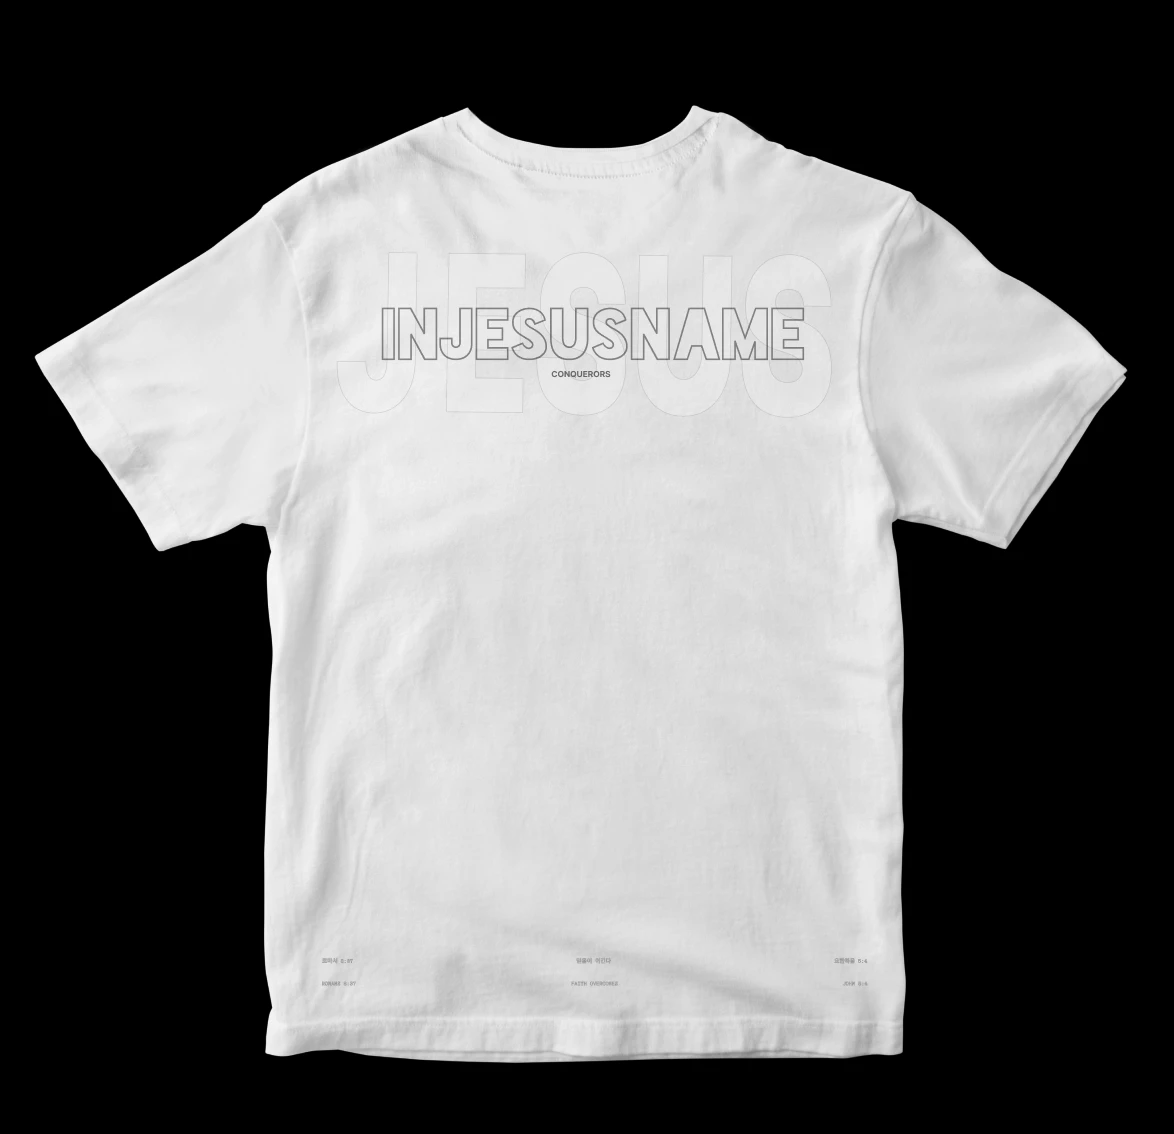
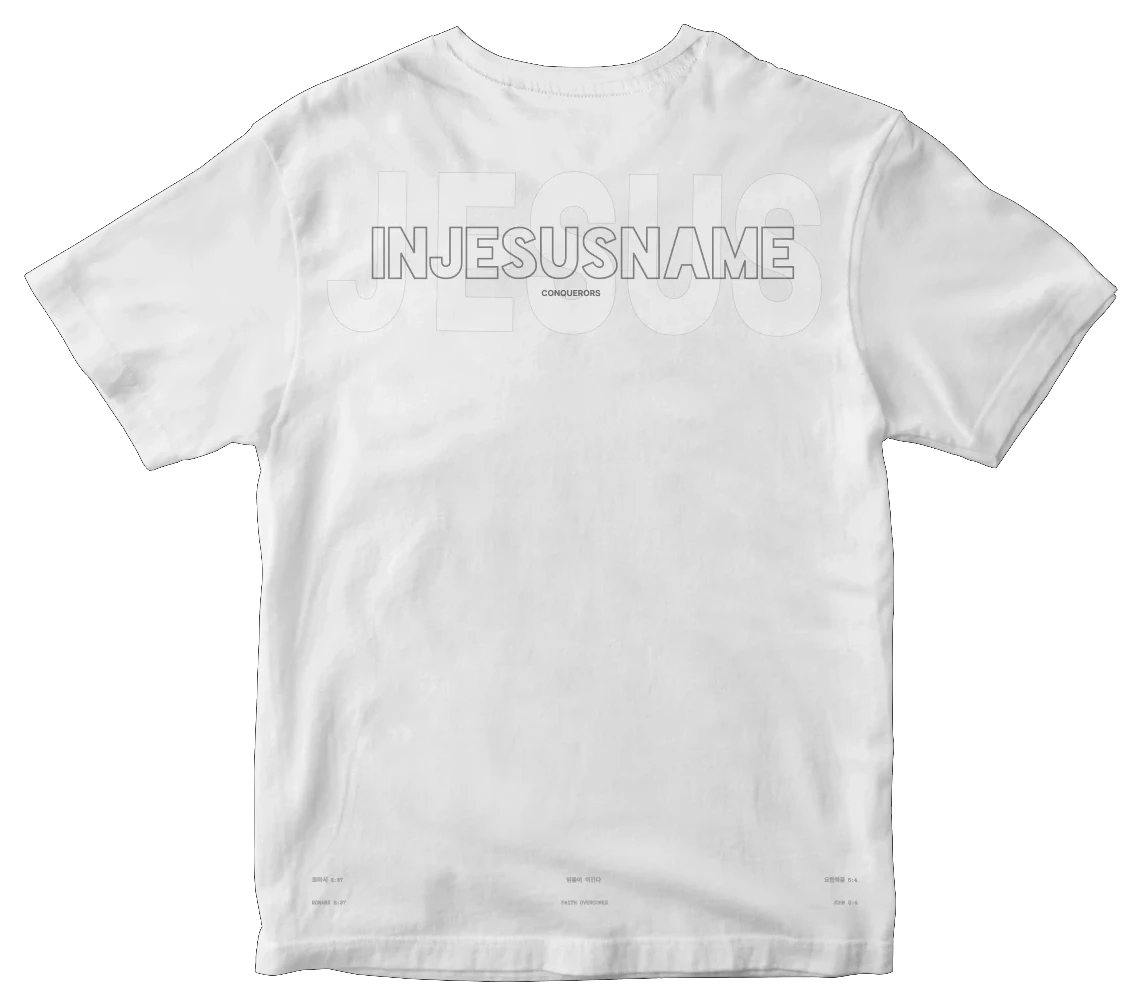
Fill the catalog with real tee designs; front-then-back order
- 28 tees built from the product mockups (rendered from the source SVGs to
  WebP in public/images/products/web, halos from the light-background
  mockup layers removed); names, colors, prices are placeholders
- Products carry front/back images: cards show the print side and reveal
  the front on hover; detail gallery and the drop toggle go FRONT -> BACK
- Men/Women pages include unisex items
- Card backgrounds get a soft spotlight so black tees stay visible
- Conquerors back image re-cut with a transparent background
- Ignore the 10-30MB source SVG/PNG files in public/images/products

Claude-Session: https://claude.ai/code/session_018kfPbD3jg1obbvMpuWQzvo

diff --git a/src/data/products.ts b/src/data/products.ts
@@ -1,32 +1,75 @@
-import type { Product } from '../types/product'
+import type { Category, Product } from '../types/product'
 
-// 목업 이미지: 기존 SVG(장당 16~28MB)에서 추출해 WebP로 변환한 버전입니다.
-const FRONT = '/images/products/product1.webp'
-const BACK = '/images/products/product1-hover.webp'
+// 상품 이미지: public/images/products/web/ (원본 SVG를 렌더링해 WebP로 변환한 파일)
+const W = (n: string) => `/images/products/web/${n}.webp`
 
-export const products: Product[] = [
+interface Def {
+  name: string
+  color: string
+  price: number
+  back?: string
+  front?: string
+  tag?: string
+  category?: Category
+  description?: string
+}
+
+// 가격·이름·앞/뒤 짝은 임시로 정한 값입니다. 실제 정보로 바꿔 주세요.
+const DEFS: Def[] = [
   {
-    id: 1,
     name: 'conquerors tee',
+    color: 'White',
     price: 39000,
-    category: 'unisex',
-    image: '/images/products/conquerors-back.webp',
-    hoverImage: FRONT,
+    back: '/images/products/conquerors-back.webp',
+    front: '/images/products/product1.webp',
     tag: 'DROP 001',
     description:
       '등판의 INJESUSNAME 아웃라인 레터링 뒤로 JESUS가 겹쳐 흐르는 시그니처 티셔츠. 밑단에는 로마서 8:37과 요한일서 5:4, “믿음이 이긴다”가 새겨져 있습니다.',
   },
-  { id: 2, name: 'nurim & conquerors t-shirt', price: 45000, category: 'men', image: FRONT, hoverImage: BACK, tag: 'NEW' },
-  { id: 3, name: 'faithful oversized tee', price: 52000, category: 'women', image: FRONT, hoverImage: BACK },
-  { id: 4, name: 'grace hoodie', price: 38000, category: 'unisex', image: FRONT, hoverImage: BACK },
-  { id: 5, name: 'kingdom long sleeve', price: 48000, category: 'men', image: FRONT, hoverImage: BACK },
-  { id: 6, name: 'victory crop top', price: 34000, category: 'women', image: FRONT, hoverImage: BACK },
-  { id: 7, name: 'anointed coach jacket', price: 62000, category: 'men', image: FRONT, hoverImage: BACK },
-  { id: 8, name: 'blessing wide pants', price: 56000, category: 'women', image: FRONT, hoverImage: BACK },
-  { id: 9, name: 'victory track pants', price: 45000, category: 'men', image: FRONT, hoverImage: BACK },
-  { id: 10, name: 'kingdom bomber jacket', price: 78000, category: 'men', image: FRONT, hoverImage: BACK },
-  { id: 11, name: 'graceful slip dress', price: 62000, category: 'women', image: FRONT, hoverImage: BACK },
-  { id: 12, name: 'anointed knit sweater', price: 54000, category: 'women', image: FRONT, hoverImage: BACK },
+  { name: 'in jesus name tee', color: 'Slate', price: 42000, back: W('g731'), front: W('t-shirt'), tag: 'NEW', description: '굵은 CONQUERORS 레터링 아래 IN JESUS NAME. 앞면에는 작은 레터링이 들어갑니다.' },
+  { name: 'a movement tee', color: 'Navy', price: 42000, back: W('g726'), front: W('t-shirt-1'), tag: 'NEW', description: '등판을 가로지르는 십자 타이포그래피 “A MOVEMENT OF 200 LEADERS”.' },
+  { name: 'faith love hope tee', color: 'Charcoal', price: 39000, back: W('g651'), front: W('g648'), description: '등판 가득 채운 말씀 블록과 밑단의 FAITH · LOVE · HOPE.' },
+  { name: 'the cross tee', color: 'Black', price: 39000, back: W('g659'), front: W('g663'), description: '블랙 위에 블랙으로 새긴 십자가와 말씀. 가까이서 봐야 보이는 톤온톤 프린트.' },
+  { name: 'mighty nation tee', color: 'Brown', price: 42000, back: W('g744'), front: W('g740'), description: '이사야 60:22 — “그 작은 자가 천 명을 이루겠고 그 약한 자가 강국을 이룰 것이라.”' },
+  { name: 'mighty nation tee', color: 'Cocoa', price: 42000, back: W('g750'), front: W('g749') },
+  { name: 'mighty nation tee', color: 'Charcoal', price: 42000, back: W('g724') },
+  { name: 'conquerors tee', color: 'Charcoal', price: 39000, back: W('g753'), front: W('g665') },
+  { name: 'conquerors star tee', color: 'Charcoal', price: 42000, back: W('g768'), front: W('g662'), tag: 'NEW' },
+  { name: 'holy spirit fire tee', color: 'Black', price: 39000, back: W('g759'), front: W('g796') },
+  { name: 'the army of the lord tee', color: 'Slate', price: 42000, back: W('g781') },
+  { name: 'conquerors tee', color: 'Navy', price: 39000, back: W('g784') },
+  { name: 'conquerors tee', color: 'Stone', price: 39000, back: W('g755') },
+  { name: 'conquerors tee', color: 'Steel Blue', price: 39000, back: W('g756') },
+  { name: 'conquerors scripture tee', color: 'Graphite', price: 42000, back: W('g777') },
+  { name: 'conquerors cross tee', color: 'Charcoal', price: 45000, back: W('g853'), front: W('g834') },
+  { name: 'holy spirit fire tee', color: 'Charcoal', price: 39000, back: W('g835'), front: W('g836') },
+  { name: 'injesusname glow tee', color: 'White', price: 42000, back: W('g819'), front: W('g820') },
+  { name: 'conquerors glow tee', color: 'White', price: 42000, back: W('g702'), front: W('g851') },
+  { name: 'injesusname glow tee', color: 'White / Orange', price: 42000, back: W('g713'), front: W('g688') },
+  { name: 'a thousand tee', color: 'White', price: 39000, back: W('g695') },
+  { name: 'conquerors gradient tee', color: 'Mint', price: 45000, back: W('g817') },
+  { name: 'nurim gradient tee', color: 'Lime', price: 45000, back: W('g818') },
+  { name: 'nurim gradient tee', color: 'Lavender', price: 45000, back: W('g793') },
+  { name: 'nurim gradient tee', color: 'Sand', price: 45000, back: W('g792') },
+  { name: 'nurim tee', color: 'Olive', price: 35000, front: W('g747') },
+  { name: 'conquerors tee', color: 'White / Red', price: 39000, back: W('g832') },
 ]
+
+export const products: Product[] = DEFS.map((d, i) => {
+  const main = d.back ?? d.front!
+  return {
+    id: i + 1,
+    name: d.name,
+    color: d.color,
+    price: d.price,
+    category: d.category ?? 'unisex',
+    image: main,
+    hoverImage: d.back && d.front ? d.front : undefined,
+    front: d.front,
+    back: d.back,
+    tag: d.tag,
+    description: d.description,
+  }
+})
 
 export const getProduct = (id: number) => products.find((p) => p.id === id)

diff --git a/src/pages/Home.tsx b/src/pages/Home.tsx
@@ -12,7 +12,7 @@ import { products } from '../data/products'
 import { lookbook } from '../data/lookbook'
 import { BRAND, DROP } from '../config'
 import { pad, won } from '../lib/format'
-import type { Category } from '../types/product'
+import { inCategory, type Category } from '../types/product'
 
 export default function Home() {
   return (
@@ -120,24 +120,24 @@ function Hero() {
 /* ───────────────────────── DROP FEATURE ───────────────────────── */
 function DropFeature() {
   const hero = products[0]
-  const [view, setView] = useState<'back' | 'front'>('back')
+  const [view, setView] = useState<'front' | 'back'>('back')
 
   return (
     <section className="grid lg:grid-cols-2 border-b border-line">
       {/* image */}
-      <div className="relative bg-black aspect-square lg:aspect-auto lg:min-h-[100svh] flex items-center justify-center overflow-hidden lg:border-r border-line pb-5 md:pb-0">
+      <div className="relative bg-[radial-gradient(circle_at_50%_45%,#1a1a1a_0%,#000_70%)] aspect-square lg:aspect-auto lg:min-h-[100svh] flex items-center justify-center overflow-hidden lg:border-r border-line pb-5 md:pb-0">
         <motion.img
           key={view}
-          src={view === 'back' ? hero.image : hero.hoverImage}
+          src={view === 'back' ? hero.back : hero.front}
           alt={`${hero.name} ${view}`}
-          className="w-[86%] max-w-[760px] object-contain mix-blend-lighten"
+          className="w-[86%] max-w-[760px] object-contain"
           initial={{ opacity: 0, scale: 1.03 }}
           animate={{ opacity: 1, scale: 1 }}
           transition={{ duration: 0.6 }}
         />
         <div className="absolute top-5 left-5 micro text-ash">Fig. {pad(hero.id)}</div>
         <div className="absolute bottom-0 md:bottom-5 left-1/2 -translate-x-1/2 flex border border-line">
-          {(['back', 'front'] as const).map((v) => (
+          {(['front', 'back'] as const).map((v) => (
             <button
               key={v}
               onClick={() => setView(v)}
@@ -296,7 +296,7 @@ const FILTERS: (Category | 'all')[] = ['all', 'men', 'women', 'unisex']
 
 function Collection() {
   const [f, setF] = useState<Category | 'all'>('all')
-  const list = useMemo(() => (f === 'all' ? products : products.filter((p) => p.category === f)).slice(0, 8), [f])
+  const list = useMemo(() => (f === 'all' ? products : products.filter((p) => inCategory(p, f))).slice(0, 8), [f])
 
   return (
     <section className="pt-28">

diff --git a/src/pages/ProductDetail.tsx b/src/pages/ProductDetail.tsx
@@ -17,9 +17,12 @@ export default function ProductDetail() {
 
   if (!product) return <NotFound />
 
-  const images = [product.image, product.hoverImage].filter(Boolean) as string[]
+  // 앞면 → 뒷면 순서
+  const images: [string, string][] = []
+  if (product.front) images.push(['Front', product.front])
+  if (product.back) images.push(['Back', product.back])
   const sizes = product.sizes ?? DEFAULT_SIZES
-  const related = products.filter((p) => p.id !== product.id && p.category === product.category).slice(0, 4)
+  const related = products.filter((p) => p.id !== product.id && p.name === product.name).concat(products.filter((p) => p.id !== product.id && p.name !== product.name)).slice(0, 4)
 
   const addToBag = () => {
     if (!size) {
@@ -35,11 +38,11 @@ export default function ProductDetail() {
       <div className="grid lg:grid-cols-[1.4fr_1fr]">
         {/* gallery */}
         <div className="flex flex-col gap-px bg-line lg:border-r border-line">
-          {images.map((src, i) => (
-            <div key={src + i} className="relative bg-black aspect-square flex items-center justify-center">
-              <img src={src} alt={`${product.name} ${i + 1}`} className="w-[82%] h-[82%] object-contain mix-blend-lighten" />
+          {images.map(([label, src], i) => (
+            <div key={src} className="relative bg-[radial-gradient(circle_at_50%_45%,#1a1a1a_0%,#000_70%)] aspect-square flex items-center justify-center">
+              <img src={src} alt={`${product.name} ${label}`} className="w-[82%] h-[82%] object-contain" />
               <span className="absolute top-4 left-4 micro text-ash">
-                {pad(i + 1, 2)} / {pad(images.length, 2)}
+                {pad(i + 1, 2)} / {pad(images.length, 2)} — {label}
               </span>
             </div>
           ))}
@@ -57,6 +60,7 @@ export default function ProductDetail() {
             <div>
               {product.tag && <p className="micro text-signal mb-4">● {product.tag}</p>}
               <h1 className="text-6xl md:text-7xl uppercase leading-[0.88]">{product.name}</h1>
+              {product.color && <p className="micro text-ash mt-3">Color — {product.color}</p>}
               <p className="micro mt-5 text-base">{won(product.price)}</p>
             </div>
 

diff --git a/src/components/ProductCard.tsx b/src/components/ProductCard.tsx
@@ -5,19 +5,19 @@ import { pad, won } from '../lib/format'
 export default function ProductCard({ product }: { product: Product }) {
   return (
     <Link to={`/product/${product.id}`} className="group block bg-ink">
-      <div className="relative aspect-[4/5] overflow-hidden bg-ink-2 flex items-center justify-center">
+      <div className="relative aspect-[4/5] overflow-hidden bg-ink-2 bg-[radial-gradient(circle_at_50%_45%,#1d1d1d_0%,#0e0e0e_70%)] flex items-center justify-center">
         <img
           src={product.image}
           alt={product.name}
           loading="lazy"
-          className="absolute inset-0 w-full h-full object-contain p-6 md:p-10 mix-blend-lighten transition-all duration-700 ease-out group-hover:scale-[1.04] group-hover:opacity-0"
+          className={`absolute inset-0 w-full h-full object-contain p-5 md:p-8 transition-all duration-700 ease-out group-hover:scale-[1.04] ${product.hoverImage ? 'group-hover:opacity-0' : ''}`}
         />
         {product.hoverImage && (
           <img
             src={product.hoverImage}
             alt=""
             loading="lazy"
-            className="absolute inset-0 w-full h-full object-contain p-6 md:p-10 mix-blend-lighten opacity-0 scale-[1.04] transition-all duration-700 ease-out group-hover:opacity-100 group-hover:scale-100"
+            className="absolute inset-0 w-full h-full object-contain p-5 md:p-8 opacity-0 scale-[1.04] transition-all duration-700 ease-out group-hover:opacity-100 group-hover:scale-100"
           />
         )}
 
@@ -34,7 +34,7 @@ export default function ProductCard({ product }: { product: Product }) {
       <div className="flex flex-col sm:flex-row items-start justify-between gap-2 sm:gap-3 px-3 md:px-4 py-3 md:py-4">
         <div>
           <h3 className="font-display text-lg md:text-xl uppercase leading-[0.95] tracking-wide line-clamp-2">{product.name}</h3>
-          <p className="micro text-ash mt-2">{product.category}</p>
+          <p className="micro text-ash mt-2">{product.color ?? product.category}</p>
         </div>
         <p className="micro whitespace-nowrap sm:order-none order-last">{won(product.price)}</p>
       </div>

diff --git a/src/components/CartDrawer.tsx b/src/components/CartDrawer.tsx
@@ -58,14 +58,14 @@ export default function CartDrawer() {
                         onClick={() => setOpen(false)}
                         className="w-24 aspect-[4/5] bg-ink-3 shrink-0 flex items-center justify-center"
                       >
-                        <img src={l.product.image} alt={l.product.name} className="w-full h-full object-contain mix-blend-lighten" />
+                        <img src={l.product.image} alt={l.product.name} className="w-full h-full object-contain" />
                       </Link>
                       <div className="flex-1 flex flex-col">
                         <div className="flex justify-between gap-3">
                           <p className="font-display text-xl uppercase leading-tight">{l.product.name}</p>
                           <p className="micro whitespace-nowrap">{won(l.product.price * l.qty)}</p>
                         </div>
-                        <p className="micro text-ash mt-1">Size {l.size}</p>
+                        <p className="micro text-ash mt-1">{l.product.color ? `${l.product.color} · ` : ''}Size {l.size}</p>
                         <div className="mt-auto flex items-center justify-between">
                           <div className="flex items-center border border-line">
                             <button className="w-8 h-8 micro" onClick={() => setQty(l.id, l.size, l.qty - 1)} aria-label="수량 감소">

diff --git a/src/pages/Cart.tsx b/src/pages/Cart.tsx
@@ -25,13 +25,13 @@ export default function Cart() {
             {lines.map((l) => (
               <li key={`${l.id}-${l.size}`} className="flex gap-5 md:gap-8 p-5 md:p-8">
                 <Link to={`/product/${l.id}`} className="w-28 md:w-40 aspect-[4/5] bg-ink-2 shrink-0 flex items-center justify-center">
-                  <img src={l.product.image} alt={l.product.name} className="w-full h-full object-contain p-3 mix-blend-lighten" />
+                  <img src={l.product.image} alt={l.product.name} className="w-full h-full object-contain p-3" />
                 </Link>
                 <div className="flex-1 flex flex-col">
                   <div className="flex justify-between gap-4">
                     <div>
                       <p className="font-display text-2xl md:text-4xl uppercase leading-none">{l.product.name}</p>
-                      <p className="micro text-ash mt-2">Size {l.size} · {won(l.product.price)}</p>
+                      <p className="micro text-ash mt-2">{l.product.color ? `${l.product.color} · ` : ''}Size {l.size} · {won(l.product.price)}</p>
                     </div>
                     <p className="micro whitespace-nowrap">{won(l.product.price * l.qty)}</p>
                   </div>

diff --git a/src/types/product.ts b/src/types/product.ts
@@ -3,10 +3,17 @@ export type Category = 'men' | 'women' | 'unisex'
 export interface Product {
   id: number
   name: string
+  /** 색상명 (예: Charcoal) */
+  color?: string
   price: number
   category: Category
+  /** 목록 카드에 먼저 보이는 이미지 (보통 프린트가 큰 쪽) */
   image: string
+  /** 카드에 마우스를 올렸을 때 보이는 이미지 */
   hoverImage?: string
+  /** 상세 페이지용 앞/뒤 이미지 */
+  front?: string
+  back?: string
   /** 카드 위에 붙는 작은 라벨 (예: NEW, DROP 001) */
   tag?: string
   description?: string
@@ -20,3 +27,6 @@ export const CATEGORY_LABELS: Record<Category, string> = {
 }
 
 export const DEFAULT_SIZES = ['S', 'M', 'L', 'XL']
+
+/** 남성/여성 카테고리에서는 유니섹스 상품도 함께 보여줍니다 */
+export const inCategory = (p: { category: Category }, c: Category) => p.category === c || p.category === 'unisex'

diff --git a/src/pages/Shop.tsx b/src/pages/Shop.tsx
@@ -3,7 +3,7 @@ import { NavLink, useLocation } from 'react-router-dom'
 import ProductGrid from '../components/ProductGrid'
 import Marquee from '../components/Marquee'
 import { products } from '../data/products'
-import { CATEGORY_LABELS, type Category } from '../types/product'
+import { CATEGORY_LABELS, inCategory, type Category } from '../types/product'
 
 type SortOrder = 'default' | 'low' | 'high'
 
@@ -34,7 +34,7 @@ export default function Shop() {
   const description = isCat ? CATEGORY_DESCRIPTION[category] : '전체 상품을 둘러보세요'
 
   const items = useMemo(() => {
-    const base = isCat ? products.filter((p) => p.category === category) : products
+    const base = isCat ? products.filter((p) => inCategory(p, category)) : products
     if (sort === 'low') return [...base].sort((a, b) => a.price - b.price)
     if (sort === 'high') return [...base].sort((a, b) => b.price - a.price)
     return base

diff --git a/src/components/SearchOverlay.tsx b/src/components/SearchOverlay.tsx
@@ -64,7 +64,7 @@ export default function SearchOverlay({ open, onClose }: { open: boolean; onClos
                     className="group flex items-center gap-5 py-4 hover:pl-3 transition-all"
                   >
                     <div className="w-14 h-14 bg-ink-3 shrink-0">
-                      <img src={p.image} alt="" className="w-full h-full object-contain mix-blend-lighten" />
+                      <img src={p.image} alt="" className="w-full h-full object-contain" />
                     </div>
                     <span className="font-display text-2xl md:text-3xl uppercase flex-1">{p.name}</span>
                     <span className="micro text-ash">{won(p.price)}</span>
